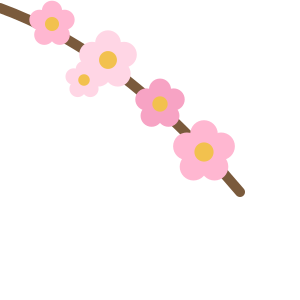
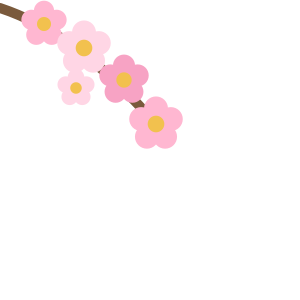
theme-pack: Spring: a larger tulip, a flower chip, deeper grass, corner branch inside 100 px

Changed region(s): [[0.06, 0.0, 0.84, 0.66]]

diff --git a/tools/theme-pack/packs/themes/spring.js b/tools/theme-pack/packs/themes/spring.js
@@ -1,14 +1,14 @@
 (function () {
-  // Blossom: petals drifting behind, a flowering branch in each top corner, grass and flowers under the inputs, a fresh-green glow at focus, a tulip on every slider and a flower on the switches.
+  // Blossom: petals drifting behind, a flowering branch in each top corner (inside 100 px), grass and flowers under the inputs, a fresh-green glow at focus, a tulip on every slider and a flower on the switches.
   var SKY = '<svg style="position:absolute;left:490.3px;top:732.9px;opacity:0.51" width="20" height="20" viewBox="0 0 24 24" aria-hidden="true"><g transform="rotate(253 12 12)"><ellipse cx="12" cy="12" rx="5" ry="9" fill="#FFB7D1"></ellipse></g></svg><svg style="position:absolute;left:1319.3px;top:966.3px;opacity:0.58" width="24" height="24" viewBox="0 0 24 24" aria-hidden="true"><g transform="rotate(237 12 12)"><ellipse cx="12" cy="12" rx="5" ry="9" fill="#FFD6E5"></ellipse></g></svg><svg style="position:absolute;left:20.9px;top:366.4px;opacity:0.54" width="29" height="29" viewBox="0 0 24 24" aria-hidden="true"><g transform="rotate(78 12 12)"><ellipse cx="12" cy="12" rx="5" ry="9" fill="#F7A3C4"></ellipse></g></svg><svg style="position:absolute;left:1130px;top:593.3px;opacity:0.57" width="20" height="20" viewBox="0 0 24 24" aria-hidden="true"><g transform="rotate(218 12 12)"><ellipse cx="12" cy="12" rx="5" ry="9" fill="#FFFFFF"></ellipse></g></svg><svg style="position:absolute;left:1101.2px;top:512.6px;opacity:0.52" width="29" height="29" viewBox="0 0 24 24" aria-hidden="true"><g transform="rotate(125 12 12)"><ellipse cx="12" cy="12" rx="5" ry="9" fill="#FFB7D1"></ellipse></g></svg><svg style="position:absolute;left:1179.3px;top:546.5px;opacity:0.64" width="15" height="15" viewBox="0 0 24 24" aria-hidden="true"><g transform="rotate(346 12 12)"><ellipse cx="12" cy="12" rx="5" ry="9" fill="#FFD6E5"></ellipse></g></svg><svg style="position:absolute;left:117.1px;top:36.6px;opacity:0.54" width="26" height="26" viewBox="0 0 24 24" aria-hidden="true"><g transform="rotate(73 12 12)"><ellipse cx="12" cy="12" rx="5" ry="9" fill="#F7A3C4"></ellipse></g></svg><svg style="position:absolute;left:261.3px;top:434.8px;opacity:0.60" width="22" height="22" viewBox="0 0 24 24" aria-hidden="true"><g transform="rotate(348 12 12)"><ellipse cx="12" cy="12" rx="5" ry="9" fill="#FFFFFF"></ellipse></g></svg><svg style="position:absolute;left:433.1px;top:254px;opacity:0.52" width="19" height="19" viewBox="0 0 24 24" aria-hidden="true"><g transform="rotate(346 12 12)"><ellipse cx="12" cy="12" rx="5" ry="9" fill="#FFB7D1"></ellipse></g></svg><svg style="position:absolute;left:188.1px;top:287.1px;opacity:0.54" width="15" height="15" viewBox="0 0 24 24" aria-hidden="true"><g transform="rotate(236 12 12)"><ellipse cx="12" cy="12" rx="5" ry="9" fill="#FFD6E5"></ellipse></g></svg><svg style="position:absolute;left:1475.1px;top:211.2px;opacity:0.64" width="21" height="21" viewBox="0 0 24 24" aria-hidden="true"><g transform="rotate(116 12 12)"><ellipse cx="12" cy="12" rx="5" ry="9" fill="#F7A3C4"></ellipse></g></svg><svg style="position:absolute;left:1499.3px;top:964.8px;opacity:0.60" width="23" height="23" viewBox="0 0 24 24" aria-hidden="true"><g transform="rotate(105 12 12)"><ellipse cx="12" cy="12" rx="5" ry="9" fill="#FFFFFF"></ellipse></g></svg><svg style="position:absolute;left:185.5px;top:526.8px;opacity:0.55" width="15" height="15" viewBox="0 0 24 24" aria-hidden="true"><g transform="rotate(185 12 12)"><ellipse cx="12" cy="12" rx="5" ry="9" fill="#FFB7D1"></ellipse></g></svg><svg style="position:absolute;left:19.9px;top:897.5px;opacity:0.48" width="15" height="15" viewBox="0 0 24 24" aria-hidden="true"><g transform="rotate(273 12 12)"><ellipse cx="12" cy="12" rx="5" ry="9" fill="#FFD6E5"></ellipse></g></svg><svg style="position:absolute;left:1274.6px;top:455.2px;opacity:0.56" width="19" height="19" viewBox="0 0 24 24" aria-hidden="true"><g transform="rotate(105 12 12)"><ellipse cx="12" cy="12" rx="5" ry="9" fill="#F7A3C4"></ellipse></g></svg><svg style="position:absolute;left:212.6px;top:1002.4px;opacity:0.54" width="14" height="14" viewBox="0 0 24 24" aria-hidden="true"><g transform="rotate(254 12 12)"><ellipse cx="12" cy="12" rx="5" ry="9" fill="#FFFFFF"></ellipse></g></svg><svg style="position:absolute;left:1827.1px;top:110px;opacity:0.47" width="19" height="19" viewBox="0 0 24 24" aria-hidden="true"><g transform="rotate(253 12 12)"><ellipse cx="12" cy="12" rx="5" ry="9" fill="#FFB7D1"></ellipse></g></svg><svg style="position:absolute;left:834px;top:184px;opacity:0.50" width="28" height="28" viewBox="0 0 24 24" aria-hidden="true"><g transform="rotate(212 12 12)"><ellipse cx="12" cy="12" rx="5" ry="9" fill="#FFD6E5"></ellipse></g></svg><svg style="position:absolute;left:108.7px;top:24.8px;opacity:0.47" width="22" height="22" viewBox="0 0 24 24" aria-hidden="true"><g transform="rotate(54 12 12)"><ellipse cx="12" cy="12" rx="5" ry="9" fill="#F7A3C4"></ellipse></g></svg><svg style="position:absolute;left:507.8px;top:753.9px;opacity:0.60" width="26" height="26" viewBox="0 0 24 24" aria-hidden="true"><g transform="rotate(215 12 12)"><ellipse cx="12" cy="12" rx="5" ry="9" fill="#FFFFFF"></ellipse></g></svg><svg style="position:absolute;left:383.1px;top:500.1px;opacity:0.59" width="26" height="26" viewBox="0 0 24 24" aria-hidden="true"><g transform="rotate(119 12 12)"><ellipse cx="12" cy="12" rx="5" ry="9" fill="#FFB7D1"></ellipse></g></svg><svg style="position:absolute;left:307.5px;top:909.4px;opacity:0.63" width="19" height="19" viewBox="0 0 24 24" aria-hidden="true"><g transform="rotate(232 12 12)"><ellipse cx="12" cy="12" rx="5" ry="9" fill="#FFD6E5"></ellipse></g></svg><svg style="position:absolute;left:581.4px;top:717.1px;opacity:0.61" width="20" height="20" viewBox="0 0 24 24" aria-hidden="true"><g transform="rotate(198 12 12)"><ellipse cx="12" cy="12" rx="5" ry="9" fill="#F7A3C4"></ellipse></g></svg><svg style="position:absolute;left:381.8px;top:225.7px;opacity:0.50" width="28" height="28" viewBox="0 0 24 24" aria-hidden="true"><g transform="rotate(294 12 12)"><ellipse cx="12" cy="12" rx="5" ry="9" fill="#FFFFFF"></ellipse></g></svg><svg style="position:absolute;left:1626.1px;top:300.7px;opacity:0.59" width="26" height="26" viewBox="0 0 24 24" aria-hidden="true"><g transform="rotate(1 12 12)"><ellipse cx="12" cy="12" rx="5" ry="9" fill="#FFB7D1"></ellipse></g></svg><svg style="position:absolute;left:516.2px;top:657.6px;opacity:0.47" width="23" height="23" viewBox="0 0 24 24" aria-hidden="true"><g transform="rotate(27 12 12)"><ellipse cx="12" cy="12" rx="5" ry="9" fill="#FFD6E5"></ellipse></g></svg>';
-  var BOTTOM = '<svg width="1920" height="54" viewBox="0 0 1920 54" aria-hidden="true"><g transform="translate(0 -16)"><path d="M0 54V38C300 30 700 40 1000 34S1600 30 1920 38V54Z" fill="#3FA25A" opacity="0.9"></path><path d="M13 54Q15 50 18 38" stroke="#2E8A48" stroke-width="2" fill="none"></path><path d="M46 54Q48 45 51 28" stroke="#2E8A48" stroke-width="2" fill="none"></path><path d="M84 54Q86 47 89 32" stroke="#2E8A48" stroke-width="2" fill="none"></path><path d="M117 54Q119 45 122 28" stroke="#2E8A48" stroke-width="2" fill="none"></path><path d="M146 54Q148 50 151 38" stroke="#2E8A48" stroke-width="2" fill="none"></path><path d="M176 54Q178 49 181 36" stroke="#2E8A48" stroke-width="2" fill="none"></path><path d="M208 54Q210 48 213 33" stroke="#2E8A48" stroke-width="2" fill="none"></path><path d="M246 54Q248 49 251 36" stroke="#2E8A48" stroke-width="2" fill="none"></path><path d="M279 54Q281 48 284 34" stroke="#2E8A48" stroke-width="2" fill="none"></path><path d="M309 54Q311 46 314 31" stroke="#2E8A48" stroke-width="2" fill="none"></path><path d="M331 54Q333 50 336 38" stroke="#2E8A48" stroke-width="2" fill="none"></path><path d="M373 54Q375 46 378 30" stroke="#2E8A48" stroke-width="2" fill="none"></path><path d="M407 54Q409 46 412 30" stroke="#2E8A48" stroke-width="2" fill="none"></path><path d="M437 54Q439 46 442 31" stroke="#2E8A48" stroke-width="2" fill="none"></path><path d="M471 54Q473 50 476 37" stroke="#2E8A48" stroke-width="2" fill="none"></path><path d="M491 54Q493 49 496 35" stroke="#2E8A48" stroke-width="2" fill="none"></path><path d="M523 54Q525 49 528 36" stroke="#2E8A48" stroke-width="2" fill="none"></path><path d="M556 54Q558 50 561 38" stroke="#2E8A48" stroke-width="2" fill="none"></path><path d="M592 54Q594 46 597 31" stroke="#2E8A48" stroke-width="2" fill="none"></path><path d="M620 54Q622 46 625 31" stroke="#2E8A48" stroke-width="2" fill="none"></path><path d="M651 54Q653 49 656 36" stroke="#2E8A48" stroke-width="2" fill="none"></path><path d="M683 54Q685 49 688 35" stroke="#2E8A48" stroke-width="2" fill="none"></path><path d="M727 54Q729 49 732 36" stroke="#2E8A48" stroke-width="2" fill="none"></path><path d="M750 54Q752 48 755 34" stroke="#2E8A48" stroke-width="2" fill="none"></path><path d="M787 54Q789 48 792 34" stroke="#2E8A48" stroke-width="2" fill="none"></path><path d="M819 54Q821 50 824 38" stroke="#2E8A48" stroke-width="2" fill="none"></path><path d="M846 54Q848 46 851 31" stroke="#2E8A48" stroke-width="2" fill="none"></path><path d="M879 54Q881 45 884 29" stroke="#2E8A48" stroke-width="2" fill="none"></path><path d="M908 54Q910 45 913 28" stroke="#2E8A48" stroke-width="2" fill="none"></path><path d="M945 54Q947 47 950 32" stroke="#2E8A48" stroke-width="2" fill="none"></path><path d="M975 54Q977 48 980 35" stroke="#2E8A48" stroke-width="2" fill="none"></path><path d="M1004 54Q1006 47 1009 31" stroke="#2E8A48" stroke-width="2" fill="none"></path><path d="M1035 54Q1037 47 1040 33" stroke="#2E8A48" stroke-width="2" fill="none"></path><path d="M1067 54Q1069 47 1072 32" stroke="#2E8A48" stroke-width="2" fill="none"></path><path d="M1104 54Q1106 48 1109 33" stroke="#2E8A48" stroke-width="2" fill="none"></path><path d="M1132 54Q1134 45 1137 28" stroke="#2E8A48" stroke-width="2" fill="none"></path><path d="M1164 54Q1166 47 1169 32" stroke="#2E8A48" stroke-width="2" fill="none"></path><path d="M1202 54Q1204 48 1207 33" stroke="#2E8A48" stroke-width="2" fill="none"></path><path d="M1235 54Q1237 49 1240 37" stroke="#2E8A48" stroke-width="2" fill="none"></path><path d="M1271 54Q1273 47 1276 33" stroke="#2E8A48" stroke-width="2" fill="none"></path><path d="M1304 54Q1306 49 1309 37" stroke="#2E8A48" stroke-width="2" fill="none"></path><path d="M1328 54Q1330 48 1333 33" stroke="#2E8A48" stroke-width="2" fill="none"></path><path d="M1356 54Q1358 49 1361 36" stroke="#2E8A48" stroke-width="2" fill="none"></path><path d="M1390 54Q1392 48 1395 33" stroke="#2E8A48" stroke-width="2" fill="none"></path><path d="M1418 54Q1420 50 1423 38" stroke="#2E8A48" stroke-width="2" fill="none"></path><path d="M1463 54Q1465 49 1468 36" stroke="#2E8A48" stroke-width="2" fill="none"></path><path d="M1495 54Q1497 45 1500 28" stroke="#2E8A48" stroke-width="2" fill="none"></path><path d="M1517 54Q1519 47 1522 32" stroke="#2E8A48" stroke-width="2" fill="none"></path><path d="M1554 54Q1556 46 1559 29" stroke="#2E8A48" stroke-width="2" fill="none"></path><path d="M1583 54Q1585 48 1588 35" stroke="#2E8A48" stroke-width="2" fill="none"></path><path d="M1617 54Q1619 45 1622 29" stroke="#2E8A48" stroke-width="2" fill="none"></path><path d="M1654 54Q1656 45 1659 28" stroke="#2E8A48" stroke-width="2" fill="none"></path><path d="M1684 54Q1686 48 1689 34" stroke="#2E8A48" stroke-width="2" fill="none"></path><path d="M1714 54Q1716 45 1719 29" stroke="#2E8A48" stroke-width="2" fill="none"></path><path d="M1749 54Q1751 45 1754 28" stroke="#2E8A48" stroke-width="2" fill="none"></path><path d="M1774 54Q1776 47 1779 33" stroke="#2E8A48" stroke-width="2" fill="none"></path><path d="M1810 54Q1812 47 1815 31" stroke="#2E8A48" stroke-width="2" fill="none"></path><path d="M1848 54Q1850 48 1853 33" stroke="#2E8A48" stroke-width="2" fill="none"></path><path d="M1866 54Q1868 50 1871 38" stroke="#2E8A48" stroke-width="2" fill="none"></path><path d="M1902 54Q1904 48 1907 33" stroke="#2E8A48" stroke-width="2" fill="none"></path><g transform="translate(49 25) scale(0.7)"><circle cx="12.0" cy="6.0" r="4.6" fill="#FFB7D1"></circle><circle cx="17.7" cy="10.1" r="4.6" fill="#FFB7D1"></circle><circle cx="15.5" cy="16.9" r="4.6" fill="#FFB7D1"></circle><circle cx="8.5" cy="16.9" r="4.6" fill="#FFB7D1"></circle><circle cx="6.3" cy="10.1" r="4.6" fill="#FFB7D1"></circle><circle cx="12" cy="12" r="3.2" fill="#F2A93B"></circle></g><g transform="translate(200 24) scale(0.7)"><circle cx="12.0" cy="6.0" r="4.6" fill="#FFF2A8"></circle><circle cx="17.7" cy="10.1" r="4.6" fill="#FFF2A8"></circle><circle cx="15.5" cy="16.9" r="4.6" fill="#FFF2A8"></circle><circle cx="8.5" cy="16.9" r="4.6" fill="#FFF2A8"></circle><circle cx="6.3" cy="10.1" r="4.6" fill="#FFF2A8"></circle><circle cx="12" cy="12" r="3.2" fill="#F2A93B"></circle></g><g transform="translate(334 29) scale(0.7)"><circle cx="12.0" cy="6.0" r="4.6" fill="#C9B6FF"></circle><circle cx="17.7" cy="10.1" r="4.6" fill="#C9B6FF"></circle><circle cx="15.5" cy="16.9" r="4.6" fill="#C9B6FF"></circle><circle cx="8.5" cy="16.9" r="4.6" fill="#C9B6FF"></circle><circle cx="6.3" cy="10.1" r="4.6" fill="#C9B6FF"></circle><circle cx="12" cy="12" r="3.2" fill="#F2A93B"></circle></g><g transform="translate(476 32) scale(0.7)"><circle cx="12.0" cy="6.0" r="4.6" fill="#FFB7D1"></circle><circle cx="17.7" cy="10.1" r="4.6" fill="#FFB7D1"></circle><circle cx="15.5" cy="16.9" r="4.6" fill="#FFB7D1"></circle><circle cx="8.5" cy="16.9" r="4.6" fill="#FFB7D1"></circle><circle cx="6.3" cy="10.1" r="4.6" fill="#FFB7D1"></circle><circle cx="12" cy="12" r="3.2" fill="#F2A93B"></circle></g><g transform="translate(589 29) scale(0.7)"><circle cx="12.0" cy="6.0" r="4.6" fill="#FFF2A8"></circle><circle cx="17.7" cy="10.1" r="4.6" fill="#FFF2A8"></circle><circle cx="15.5" cy="16.9" r="4.6" fill="#FFF2A8"></circle><circle cx="8.5" cy="16.9" r="4.6" fill="#FFF2A8"></circle><circle cx="6.3" cy="10.1" r="4.6" fill="#FFF2A8"></circle><circle cx="12" cy="12" r="3.2" fill="#F2A93B"></circle></g><g transform="translate(722 25) scale(0.7)"><circle cx="12.0" cy="6.0" r="4.6" fill="#C9B6FF"></circle><circle cx="17.7" cy="10.1" r="4.6" fill="#C9B6FF"></circle><circle cx="15.5" cy="16.9" r="4.6" fill="#C9B6FF"></circle><circle cx="8.5" cy="16.9" r="4.6" fill="#C9B6FF"></circle><circle cx="6.3" cy="10.1" r="4.6" fill="#C9B6FF"></circle><circle cx="12" cy="12" r="3.2" fill="#F2A93B"></circle></g><g transform="translate(853 31) scale(0.7)"><circle cx="12.0" cy="6.0" r="4.6" fill="#FFB7D1"></circle><circle cx="17.7" cy="10.1" r="4.6" fill="#FFB7D1"></circle><circle cx="15.5" cy="16.9" r="4.6" fill="#FFB7D1"></circle><circle cx="8.5" cy="16.9" r="4.6" fill="#FFB7D1"></circle><circle cx="6.3" cy="10.1" r="4.6" fill="#FFB7D1"></circle><circle cx="12" cy="12" r="3.2" fill="#F2A93B"></circle></g><g transform="translate(1003 32) scale(0.7)"><circle cx="12.0" cy="6.0" r="4.6" fill="#FFF2A8"></circle><circle cx="17.7" cy="10.1" r="4.6" fill="#FFF2A8"></circle><circle cx="15.5" cy="16.9" r="4.6" fill="#FFF2A8"></circle><circle cx="8.5" cy="16.9" r="4.6" fill="#FFF2A8"></circle><circle cx="6.3" cy="10.1" r="4.6" fill="#FFF2A8"></circle><circle cx="12" cy="12" r="3.2" fill="#F2A93B"></circle></g><g transform="translate(1145 29) scale(0.7)"><circle cx="12.0" cy="6.0" r="4.6" fill="#C9B6FF"></circle><circle cx="17.7" cy="10.1" r="4.6" fill="#C9B6FF"></circle><circle cx="15.5" cy="16.9" r="4.6" fill="#C9B6FF"></circle><circle cx="8.5" cy="16.9" r="4.6" fill="#C9B6FF"></circle><circle cx="6.3" cy="10.1" r="4.6" fill="#C9B6FF"></circle><circle cx="12" cy="12" r="3.2" fill="#F2A93B"></circle></g><g transform="translate(1292 34) scale(0.7)"><circle cx="12.0" cy="6.0" r="4.6" fill="#FFB7D1"></circle><circle cx="17.7" cy="10.1" r="4.6" fill="#FFB7D1"></circle><circle cx="15.5" cy="16.9" r="4.6" fill="#FFB7D1"></circle><circle cx="8.5" cy="16.9" r="4.6" fill="#FFB7D1"></circle><circle cx="6.3" cy="10.1" r="4.6" fill="#FFB7D1"></circle><circle cx="12" cy="12" r="3.2" fill="#F2A93B"></circle></g><g transform="translate(1408 28) scale(0.7)"><circle cx="12.0" cy="6.0" r="4.6" fill="#FFF2A8"></circle><circle cx="17.7" cy="10.1" r="4.6" fill="#FFF2A8"></circle><circle cx="15.5" cy="16.9" r="4.6" fill="#FFF2A8"></circle><circle cx="8.5" cy="16.9" r="4.6" fill="#FFF2A8"></circle><circle cx="6.3" cy="10.1" r="4.6" fill="#FFF2A8"></circle><circle cx="12" cy="12" r="3.2" fill="#F2A93B"></circle></g><g transform="translate(1536 28) scale(0.7)"><circle cx="12.0" cy="6.0" r="4.6" fill="#C9B6FF"></circle><circle cx="17.7" cy="10.1" r="4.6" fill="#C9B6FF"></circle><circle cx="15.5" cy="16.9" r="4.6" fill="#C9B6FF"></circle><circle cx="8.5" cy="16.9" r="4.6" fill="#C9B6FF"></circle><circle cx="6.3" cy="10.1" r="4.6" fill="#C9B6FF"></circle><circle cx="12" cy="12" r="3.2" fill="#F2A93B"></circle></g><g transform="translate(1678 27) scale(0.7)"><circle cx="12.0" cy="6.0" r="4.6" fill="#FFB7D1"></circle><circle cx="17.7" cy="10.1" r="4.6" fill="#FFB7D1"></circle><circle cx="15.5" cy="16.9" r="4.6" fill="#FFB7D1"></circle><circle cx="8.5" cy="16.9" r="4.6" fill="#FFB7D1"></circle><circle cx="6.3" cy="10.1" r="4.6" fill="#FFB7D1"></circle><circle cx="12" cy="12" r="3.2" fill="#F2A93B"></circle></g><g transform="translate(1805 26) scale(0.7)"><circle cx="12.0" cy="6.0" r="4.6" fill="#FFF2A8"></circle><circle cx="17.7" cy="10.1" r="4.6" fill="#FFF2A8"></circle><circle cx="15.5" cy="16.9" r="4.6" fill="#FFF2A8"></circle><circle cx="8.5" cy="16.9" r="4.6" fill="#FFF2A8"></circle><circle cx="6.3" cy="10.1" r="4.6" fill="#FFF2A8"></circle><circle cx="12" cy="12" r="3.2" fill="#F2A93B"></circle></g></g></svg>';
-  var CORNER = '<svg width="150" height="150" viewBox="0 0 150 150" aria-hidden="true"><path d="M150 4C112 18 74 44 30 96" stroke="#7A5A3C" stroke-width="5" fill="none" stroke-linecap="round"></path><g transform="translate(110.8 -1.200000000000001) scale(1.1)"><circle cx="12.0" cy="6.0" r="4.6" fill="#FFB7D1"></circle><circle cx="17.7" cy="10.1" r="4.6" fill="#FFB7D1"></circle><circle cx="15.5" cy="16.9" r="4.6" fill="#FFB7D1"></circle><circle cx="8.5" cy="16.9" r="4.6" fill="#FFB7D1"></circle><circle cx="6.3" cy="10.1" r="4.6" fill="#FFB7D1"></circle><circle cx="12" cy="12" r="3.2" fill="#F2C14E"></circle></g><g transform="translate(79.2 13.200000000000003) scale(1.4)"><circle cx="12.0" cy="6.0" r="4.6" fill="#FFD6E5"></circle><circle cx="17.7" cy="10.1" r="4.6" fill="#FFD6E5"></circle><circle cx="15.5" cy="16.9" r="4.6" fill="#FFD6E5"></circle><circle cx="8.5" cy="16.9" r="4.6" fill="#FFD6E5"></circle><circle cx="6.3" cy="10.1" r="4.6" fill="#FFD6E5"></circle><circle cx="12" cy="12" r="3.2" fill="#F2C14E"></circle></g><g transform="translate(55.6 37.6) scale(1.2)"><circle cx="12.0" cy="6.0" r="4.6" fill="#F7A3C4"></circle><circle cx="17.7" cy="10.1" r="4.6" fill="#F7A3C4"></circle><circle cx="15.5" cy="16.9" r="4.6" fill="#F7A3C4"></circle><circle cx="8.5" cy="16.9" r="4.6" fill="#F7A3C4"></circle><circle cx="6.3" cy="10.1" r="4.6" fill="#F7A3C4"></circle><circle cx="12" cy="12" r="3.2" fill="#F2C14E"></circle></g><g transform="translate(30 58) scale(1.5)"><circle cx="12.0" cy="6.0" r="4.6" fill="#FFB7D1"></circle><circle cx="17.7" cy="10.1" r="4.6" fill="#FFB7D1"></circle><circle cx="15.5" cy="16.9" r="4.6" fill="#FFB7D1"></circle><circle cx="8.5" cy="16.9" r="4.6" fill="#FFB7D1"></circle><circle cx="6.3" cy="10.1" r="4.6" fill="#FFB7D1"></circle><circle cx="12" cy="12" r="3.2" fill="#F2C14E"></circle></g><g transform="translate(97.2 29.2) scale(0.9)"><circle cx="12.0" cy="6.0" r="4.6" fill="#FFD6E5"></circle><circle cx="17.7" cy="10.1" r="4.6" fill="#FFD6E5"></circle><circle cx="15.5" cy="16.9" r="4.6" fill="#FFD6E5"></circle><circle cx="8.5" cy="16.9" r="4.6" fill="#FFD6E5"></circle><circle cx="6.3" cy="10.1" r="4.6" fill="#FFD6E5"></circle><circle cx="12" cy="12" r="3.2" fill="#F2C14E"></circle></g></svg>';
-  var CORNER_L = '<svg width="150" height="150" viewBox="0 0 150 150" aria-hidden="true" style="-webkit-transform:scaleX(-1);transform:scaleX(-1)"><path d="M150 4C112 18 74 44 30 96" stroke="#7A5A3C" stroke-width="5" fill="none" stroke-linecap="round"></path><g transform="translate(110.8 -1.200000000000001) scale(1.1)"><circle cx="12.0" cy="6.0" r="4.6" fill="#FFB7D1"></circle><circle cx="17.7" cy="10.1" r="4.6" fill="#FFB7D1"></circle><circle cx="15.5" cy="16.9" r="4.6" fill="#FFB7D1"></circle><circle cx="8.5" cy="16.9" r="4.6" fill="#FFB7D1"></circle><circle cx="6.3" cy="10.1" r="4.6" fill="#FFB7D1"></circle><circle cx="12" cy="12" r="3.2" fill="#F2C14E"></circle></g><g transform="translate(79.2 13.200000000000003) scale(1.4)"><circle cx="12.0" cy="6.0" r="4.6" fill="#FFD6E5"></circle><circle cx="17.7" cy="10.1" r="4.6" fill="#FFD6E5"></circle><circle cx="15.5" cy="16.9" r="4.6" fill="#FFD6E5"></circle><circle cx="8.5" cy="16.9" r="4.6" fill="#FFD6E5"></circle><circle cx="6.3" cy="10.1" r="4.6" fill="#FFD6E5"></circle><circle cx="12" cy="12" r="3.2" fill="#F2C14E"></circle></g><g transform="translate(55.6 37.6) scale(1.2)"><circle cx="12.0" cy="6.0" r="4.6" fill="#F7A3C4"></circle><circle cx="17.7" cy="10.1" r="4.6" fill="#F7A3C4"></circle><circle cx="15.5" cy="16.9" r="4.6" fill="#F7A3C4"></circle><circle cx="8.5" cy="16.9" r="4.6" fill="#F7A3C4"></circle><circle cx="6.3" cy="10.1" r="4.6" fill="#F7A3C4"></circle><circle cx="12" cy="12" r="3.2" fill="#F2C14E"></circle></g><g transform="translate(30 58) scale(1.5)"><circle cx="12.0" cy="6.0" r="4.6" fill="#FFB7D1"></circle><circle cx="17.7" cy="10.1" r="4.6" fill="#FFB7D1"></circle><circle cx="15.5" cy="16.9" r="4.6" fill="#FFB7D1"></circle><circle cx="8.5" cy="16.9" r="4.6" fill="#FFB7D1"></circle><circle cx="6.3" cy="10.1" r="4.6" fill="#FFB7D1"></circle><circle cx="12" cy="12" r="3.2" fill="#F2C14E"></circle></g><g transform="translate(97.2 29.2) scale(0.9)"><circle cx="12.0" cy="6.0" r="4.6" fill="#FFD6E5"></circle><circle cx="17.7" cy="10.1" r="4.6" fill="#FFD6E5"></circle><circle cx="15.5" cy="16.9" r="4.6" fill="#FFD6E5"></circle><circle cx="8.5" cy="16.9" r="4.6" fill="#FFD6E5"></circle><circle cx="6.3" cy="10.1" r="4.6" fill="#FFD6E5"></circle><circle cx="12" cy="12" r="3.2" fill="#F2C14E"></circle></g></svg>';
+  var BOTTOM = '<svg width="1920" height="54" viewBox="0 0 1920 54" aria-hidden="true"><g transform="translate(0 -16)"><path d="M0 54V38C300 30 700 40 1000 34S1600 30 1920 38V54Z" fill="#2F8A4A" opacity="0.95"></path><path d="M13 54Q15 50 18 38" stroke="#1F7038" stroke-width="2" fill="none"></path><path d="M46 54Q48 45 51 28" stroke="#1F7038" stroke-width="2" fill="none"></path><path d="M84 54Q86 47 89 32" stroke="#1F7038" stroke-width="2" fill="none"></path><path d="M117 54Q119 45 122 28" stroke="#1F7038" stroke-width="2" fill="none"></path><path d="M146 54Q148 50 151 38" stroke="#1F7038" stroke-width="2" fill="none"></path><path d="M176 54Q178 49 181 36" stroke="#1F7038" stroke-width="2" fill="none"></path><path d="M208 54Q210 48 213 33" stroke="#1F7038" stroke-width="2" fill="none"></path><path d="M246 54Q248 49 251 36" stroke="#1F7038" stroke-width="2" fill="none"></path><path d="M279 54Q281 48 284 34" stroke="#1F7038" stroke-width="2" fill="none"></path><path d="M309 54Q311 46 314 31" stroke="#1F7038" stroke-width="2" fill="none"></path><path d="M331 54Q333 50 336 38" stroke="#1F7038" stroke-width="2" fill="none"></path><path d="M373 54Q375 46 378 30" stroke="#1F7038" stroke-width="2" fill="none"></path><path d="M407 54Q409 46 412 30" stroke="#1F7038" stroke-width="2" fill="none"></path><path d="M437 54Q439 46 442 31" stroke="#1F7038" stroke-width="2" fill="none"></path><path d="M471 54Q473 50 476 37" stroke="#1F7038" stroke-width="2" fill="none"></path><path d="M491 54Q493 49 496 35" stroke="#1F7038" stroke-width="2" fill="none"></path><path d="M523 54Q525 49 528 36" stroke="#1F7038" stroke-width="2" fill="none"></path><path d="M556 54Q558 50 561 38" stroke="#1F7038" stroke-width="2" fill="none"></path><path d="M592 54Q594 46 597 31" stroke="#1F7038" stroke-width="2" fill="none"></path><path d="M620 54Q622 46 625 31" stroke="#1F7038" stroke-width="2" fill="none"></path><path d="M651 54Q653 49 656 36" stroke="#1F7038" stroke-width="2" fill="none"></path><path d="M683 54Q685 49 688 35" stroke="#1F7038" stroke-width="2" fill="none"></path><path d="M727 54Q729 49 732 36" stroke="#1F7038" stroke-width="2" fill="none"></path><path d="M750 54Q752 48 755 34" stroke="#1F7038" stroke-width="2" fill="none"></path><path d="M787 54Q789 48 792 34" stroke="#1F7038" stroke-width="2" fill="none"></path><path d="M819 54Q821 50 824 38" stroke="#1F7038" stroke-width="2" fill="none"></path><path d="M846 54Q848 46 851 31" stroke="#1F7038" stroke-width="2" fill="none"></path><path d="M879 54Q881 45 884 29" stroke="#1F7038" stroke-width="2" fill="none"></path><path d="M908 54Q910 45 913 28" stroke="#1F7038" stroke-width="2" fill="none"></path><path d="M945 54Q947 47 950 32" stroke="#1F7038" stroke-width="2" fill="none"></path><path d="M975 54Q977 48 980 35" stroke="#1F7038" stroke-width="2" fill="none"></path><path d="M1004 54Q1006 47 1009 31" stroke="#1F7038" stroke-width="2" fill="none"></path><path d="M1035 54Q1037 47 1040 33" stroke="#1F7038" stroke-width="2" fill="none"></path><path d="M1067 54Q1069 47 1072 32" stroke="#1F7038" stroke-width="2" fill="none"></path><path d="M1104 54Q1106 48 1109 33" stroke="#1F7038" stroke-width="2" fill="none"></path><path d="M1132 54Q1134 45 1137 28" stroke="#1F7038" stroke-width="2" fill="none"></path><path d="M1164 54Q1166 47 1169 32" stroke="#1F7038" stroke-width="2" fill="none"></path><path d="M1202 54Q1204 48 1207 33" stroke="#1F7038" stroke-width="2" fill="none"></path><path d="M1235 54Q1237 49 1240 37" stroke="#1F7038" stroke-width="2" fill="none"></path><path d="M1271 54Q1273 47 1276 33" stroke="#1F7038" stroke-width="2" fill="none"></path><path d="M1304 54Q1306 49 1309 37" stroke="#1F7038" stroke-width="2" fill="none"></path><path d="M1328 54Q1330 48 1333 33" stroke="#1F7038" stroke-width="2" fill="none"></path><path d="M1356 54Q1358 49 1361 36" stroke="#1F7038" stroke-width="2" fill="none"></path><path d="M1390 54Q1392 48 1395 33" stroke="#1F7038" stroke-width="2" fill="none"></path><path d="M1418 54Q1420 50 1423 38" stroke="#1F7038" stroke-width="2" fill="none"></path><path d="M1463 54Q1465 49 1468 36" stroke="#1F7038" stroke-width="2" fill="none"></path><path d="M1495 54Q1497 45 1500 28" stroke="#1F7038" stroke-width="2" fill="none"></path><path d="M1517 54Q1519 47 1522 32" stroke="#1F7038" stroke-width="2" fill="none"></path><path d="M1554 54Q1556 46 1559 29" stroke="#1F7038" stroke-width="2" fill="none"></path><path d="M1583 54Q1585 48 1588 35" stroke="#1F7038" stroke-width="2" fill="none"></path><path d="M1617 54Q1619 45 1622 29" stroke="#1F7038" stroke-width="2" fill="none"></path><path d="M1654 54Q1656 45 1659 28" stroke="#1F7038" stroke-width="2" fill="none"></path><path d="M1684 54Q1686 48 1689 34" stroke="#1F7038" stroke-width="2" fill="none"></path><path d="M1714 54Q1716 45 1719 29" stroke="#1F7038" stroke-width="2" fill="none"></path><path d="M1749 54Q1751 45 1754 28" stroke="#1F7038" stroke-width="2" fill="none"></path><path d="M1774 54Q1776 47 1779 33" stroke="#1F7038" stroke-width="2" fill="none"></path><path d="M1810 54Q1812 47 1815 31" stroke="#1F7038" stroke-width="2" fill="none"></path><path d="M1848 54Q1850 48 1853 33" stroke="#1F7038" stroke-width="2" fill="none"></path><path d="M1866 54Q1868 50 1871 38" stroke="#1F7038" stroke-width="2" fill="none"></path><path d="M1902 54Q1904 48 1907 33" stroke="#1F7038" stroke-width="2" fill="none"></path><g transform="translate(49 25) scale(0.7)"><circle cx="12.0" cy="6.0" r="4.6" fill="#FFB7D1"></circle><circle cx="17.7" cy="10.1" r="4.6" fill="#FFB7D1"></circle><circle cx="15.5" cy="16.9" r="4.6" fill="#FFB7D1"></circle><circle cx="8.5" cy="16.9" r="4.6" fill="#FFB7D1"></circle><circle cx="6.3" cy="10.1" r="4.6" fill="#FFB7D1"></circle><circle cx="12" cy="12" r="3.2" fill="#F2A93B"></circle></g><g transform="translate(200 24) scale(0.7)"><circle cx="12.0" cy="6.0" r="4.6" fill="#FFF2A8"></circle><circle cx="17.7" cy="10.1" r="4.6" fill="#FFF2A8"></circle><circle cx="15.5" cy="16.9" r="4.6" fill="#FFF2A8"></circle><circle cx="8.5" cy="16.9" r="4.6" fill="#FFF2A8"></circle><circle cx="6.3" cy="10.1" r="4.6" fill="#FFF2A8"></circle><circle cx="12" cy="12" r="3.2" fill="#F2A93B"></circle></g><g transform="translate(334 29) scale(0.7)"><circle cx="12.0" cy="6.0" r="4.6" fill="#C9B6FF"></circle><circle cx="17.7" cy="10.1" r="4.6" fill="#C9B6FF"></circle><circle cx="15.5" cy="16.9" r="4.6" fill="#C9B6FF"></circle><circle cx="8.5" cy="16.9" r="4.6" fill="#C9B6FF"></circle><circle cx="6.3" cy="10.1" r="4.6" fill="#C9B6FF"></circle><circle cx="12" cy="12" r="3.2" fill="#F2A93B"></circle></g><g transform="translate(476 32) scale(0.7)"><circle cx="12.0" cy="6.0" r="4.6" fill="#FFB7D1"></circle><circle cx="17.7" cy="10.1" r="4.6" fill="#FFB7D1"></circle><circle cx="15.5" cy="16.9" r="4.6" fill="#FFB7D1"></circle><circle cx="8.5" cy="16.9" r="4.6" fill="#FFB7D1"></circle><circle cx="6.3" cy="10.1" r="4.6" fill="#FFB7D1"></circle><circle cx="12" cy="12" r="3.2" fill="#F2A93B"></circle></g><g transform="translate(589 29) scale(0.7)"><circle cx="12.0" cy="6.0" r="4.6" fill="#FFF2A8"></circle><circle cx="17.7" cy="10.1" r="4.6" fill="#FFF2A8"></circle><circle cx="15.5" cy="16.9" r="4.6" fill="#FFF2A8"></circle><circle cx="8.5" cy="16.9" r="4.6" fill="#FFF2A8"></circle><circle cx="6.3" cy="10.1" r="4.6" fill="#FFF2A8"></circle><circle cx="12" cy="12" r="3.2" fill="#F2A93B"></circle></g><g transform="translate(722 25) scale(0.7)"><circle cx="12.0" cy="6.0" r="4.6" fill="#C9B6FF"></circle><circle cx="17.7" cy="10.1" r="4.6" fill="#C9B6FF"></circle><circle cx="15.5" cy="16.9" r="4.6" fill="#C9B6FF"></circle><circle cx="8.5" cy="16.9" r="4.6" fill="#C9B6FF"></circle><circle cx="6.3" cy="10.1" r="4.6" fill="#C9B6FF"></circle><circle cx="12" cy="12" r="3.2" fill="#F2A93B"></circle></g><g transform="translate(853 31) scale(0.7)"><circle cx="12.0" cy="6.0" r="4.6" fill="#FFB7D1"></circle><circle cx="17.7" cy="10.1" r="4.6" fill="#FFB7D1"></circle><circle cx="15.5" cy="16.9" r="4.6" fill="#FFB7D1"></circle><circle cx="8.5" cy="16.9" r="4.6" fill="#FFB7D1"></circle><circle cx="6.3" cy="10.1" r="4.6" fill="#FFB7D1"></circle><circle cx="12" cy="12" r="3.2" fill="#F2A93B"></circle></g><g transform="translate(1003 32) scale(0.7)"><circle cx="12.0" cy="6.0" r="4.6" fill="#FFF2A8"></circle><circle cx="17.7" cy="10.1" r="4.6" fill="#FFF2A8"></circle><circle cx="15.5" cy="16.9" r="4.6" fill="#FFF2A8"></circle><circle cx="8.5" cy="16.9" r="4.6" fill="#FFF2A8"></circle><circle cx="6.3" cy="10.1" r="4.6" fill="#FFF2A8"></circle><circle cx="12" cy="12" r="3.2" fill="#F2A93B"></circle></g><g transform="translate(1145 29) scale(0.7)"><circle cx="12.0" cy="6.0" r="4.6" fill="#C9B6FF"></circle><circle cx="17.7" cy="10.1" r="4.6" fill="#C9B6FF"></circle><circle cx="15.5" cy="16.9" r="4.6" fill="#C9B6FF"></circle><circle cx="8.5" cy="16.9" r="4.6" fill="#C9B6FF"></circle><circle cx="6.3" cy="10.1" r="4.6" fill="#C9B6FF"></circle><circle cx="12" cy="12" r="3.2" fill="#F2A93B"></circle></g><g transform="translate(1292 34) scale(0.7)"><circle cx="12.0" cy="6.0" r="4.6" fill="#FFB7D1"></circle><circle cx="17.7" cy="10.1" r="4.6" fill="#FFB7D1"></circle><circle cx="15.5" cy="16.9" r="4.6" fill="#FFB7D1"></circle><circle cx="8.5" cy="16.9" r="4.6" fill="#FFB7D1"></circle><circle cx="6.3" cy="10.1" r="4.6" fill="#FFB7D1"></circle><circle cx="12" cy="12" r="3.2" fill="#F2A93B"></circle></g><g transform="translate(1408 28) scale(0.7)"><circle cx="12.0" cy="6.0" r="4.6" fill="#FFF2A8"></circle><circle cx="17.7" cy="10.1" r="4.6" fill="#FFF2A8"></circle><circle cx="15.5" cy="16.9" r="4.6" fill="#FFF2A8"></circle><circle cx="8.5" cy="16.9" r="4.6" fill="#FFF2A8"></circle><circle cx="6.3" cy="10.1" r="4.6" fill="#FFF2A8"></circle><circle cx="12" cy="12" r="3.2" fill="#F2A93B"></circle></g><g transform="translate(1536 28) scale(0.7)"><circle cx="12.0" cy="6.0" r="4.6" fill="#C9B6FF"></circle><circle cx="17.7" cy="10.1" r="4.6" fill="#C9B6FF"></circle><circle cx="15.5" cy="16.9" r="4.6" fill="#C9B6FF"></circle><circle cx="8.5" cy="16.9" r="4.6" fill="#C9B6FF"></circle><circle cx="6.3" cy="10.1" r="4.6" fill="#C9B6FF"></circle><circle cx="12" cy="12" r="3.2" fill="#F2A93B"></circle></g><g transform="translate(1678 27) scale(0.7)"><circle cx="12.0" cy="6.0" r="4.6" fill="#FFB7D1"></circle><circle cx="17.7" cy="10.1" r="4.6" fill="#FFB7D1"></circle><circle cx="15.5" cy="16.9" r="4.6" fill="#FFB7D1"></circle><circle cx="8.5" cy="16.9" r="4.6" fill="#FFB7D1"></circle><circle cx="6.3" cy="10.1" r="4.6" fill="#FFB7D1"></circle><circle cx="12" cy="12" r="3.2" fill="#F2A93B"></circle></g><g transform="translate(1805 26) scale(0.7)"><circle cx="12.0" cy="6.0" r="4.6" fill="#FFF2A8"></circle><circle cx="17.7" cy="10.1" r="4.6" fill="#FFF2A8"></circle><circle cx="15.5" cy="16.9" r="4.6" fill="#FFF2A8"></circle><circle cx="8.5" cy="16.9" r="4.6" fill="#FFF2A8"></circle><circle cx="6.3" cy="10.1" r="4.6" fill="#FFF2A8"></circle><circle cx="12" cy="12" r="3.2" fill="#F2A93B"></circle></g></g></svg>';
+  var CORNER = '<svg width="150" height="150" viewBox="0 0 150 150" aria-hidden="true"><path d="M150 4C126 12 102 28 72 62" stroke="#7A5A3C" stroke-width="5" fill="none" stroke-linecap="round"></path><g transform="translate(114.8 -1.200000000000001) scale(1.1)"><circle cx="12.0" cy="6.0" r="4.6" fill="#FFB7D1"></circle><circle cx="17.7" cy="10.1" r="4.6" fill="#FFB7D1"></circle><circle cx="15.5" cy="16.9" r="4.6" fill="#FFB7D1"></circle><circle cx="8.5" cy="16.9" r="4.6" fill="#FFB7D1"></circle><circle cx="6.3" cy="10.1" r="4.6" fill="#FFB7D1"></circle><circle cx="12" cy="12" r="3.2" fill="#F2C14E"></circle></g><g transform="translate(92.4 8.399999999999999) scale(1.3)"><circle cx="12.0" cy="6.0" r="4.6" fill="#FFD6E5"></circle><circle cx="17.7" cy="10.1" r="4.6" fill="#FFD6E5"></circle><circle cx="15.5" cy="16.9" r="4.6" fill="#FFD6E5"></circle><circle cx="8.5" cy="16.9" r="4.6" fill="#FFD6E5"></circle><circle cx="6.3" cy="10.1" r="4.6" fill="#FFD6E5"></circle><circle cx="12" cy="12" r="3.2" fill="#F2C14E"></circle></g><g transform="translate(73.6 25.6) scale(1.2)"><circle cx="12.0" cy="6.0" r="4.6" fill="#F7A3C4"></circle><circle cx="17.7" cy="10.1" r="4.6" fill="#F7A3C4"></circle><circle cx="15.5" cy="16.9" r="4.6" fill="#F7A3C4"></circle><circle cx="8.5" cy="16.9" r="4.6" fill="#F7A3C4"></circle><circle cx="6.3" cy="10.1" r="4.6" fill="#F7A3C4"></circle><circle cx="12" cy="12" r="3.2" fill="#F2C14E"></circle></g><g transform="translate(56.4 46.4) scale(1.3)"><circle cx="12.0" cy="6.0" r="4.6" fill="#FFB7D1"></circle><circle cx="17.7" cy="10.1" r="4.6" fill="#FFB7D1"></circle><circle cx="15.5" cy="16.9" r="4.6" fill="#FFB7D1"></circle><circle cx="8.5" cy="16.9" r="4.6" fill="#FFB7D1"></circle><circle cx="6.3" cy="10.1" r="4.6" fill="#FFB7D1"></circle><circle cx="12" cy="12" r="3.2" fill="#F2C14E"></circle></g><g transform="translate(101.2 33.2) scale(0.9)"><circle cx="12.0" cy="6.0" r="4.6" fill="#FFD6E5"></circle><circle cx="17.7" cy="10.1" r="4.6" fill="#FFD6E5"></circle><circle cx="15.5" cy="16.9" r="4.6" fill="#FFD6E5"></circle><circle cx="8.5" cy="16.9" r="4.6" fill="#FFD6E5"></circle><circle cx="6.3" cy="10.1" r="4.6" fill="#FFD6E5"></circle><circle cx="12" cy="12" r="3.2" fill="#F2C14E"></circle></g></svg>';
+  var CORNER_L = '<svg width="150" height="150" viewBox="0 0 150 150" aria-hidden="true" style="-webkit-transform:scaleX(-1);transform:scaleX(-1)"><path d="M150 4C126 12 102 28 72 62" stroke="#7A5A3C" stroke-width="5" fill="none" stroke-linecap="round"></path><g transform="translate(114.8 -1.200000000000001) scale(1.1)"><circle cx="12.0" cy="6.0" r="4.6" fill="#FFB7D1"></circle><circle cx="17.7" cy="10.1" r="4.6" fill="#FFB7D1"></circle><circle cx="15.5" cy="16.9" r="4.6" fill="#FFB7D1"></circle><circle cx="8.5" cy="16.9" r="4.6" fill="#FFB7D1"></circle><circle cx="6.3" cy="10.1" r="4.6" fill="#FFB7D1"></circle><circle cx="12" cy="12" r="3.2" fill="#F2C14E"></circle></g><g transform="translate(92.4 8.399999999999999) scale(1.3)"><circle cx="12.0" cy="6.0" r="4.6" fill="#FFD6E5"></circle><circle cx="17.7" cy="10.1" r="4.6" fill="#FFD6E5"></circle><circle cx="15.5" cy="16.9" r="4.6" fill="#FFD6E5"></circle><circle cx="8.5" cy="16.9" r="4.6" fill="#FFD6E5"></circle><circle cx="6.3" cy="10.1" r="4.6" fill="#FFD6E5"></circle><circle cx="12" cy="12" r="3.2" fill="#F2C14E"></circle></g><g transform="translate(73.6 25.6) scale(1.2)"><circle cx="12.0" cy="6.0" r="4.6" fill="#F7A3C4"></circle><circle cx="17.7" cy="10.1" r="4.6" fill="#F7A3C4"></circle><circle cx="15.5" cy="16.9" r="4.6" fill="#F7A3C4"></circle><circle cx="8.5" cy="16.9" r="4.6" fill="#F7A3C4"></circle><circle cx="6.3" cy="10.1" r="4.6" fill="#F7A3C4"></circle><circle cx="12" cy="12" r="3.2" fill="#F2C14E"></circle></g><g transform="translate(56.4 46.4) scale(1.3)"><circle cx="12.0" cy="6.0" r="4.6" fill="#FFB7D1"></circle><circle cx="17.7" cy="10.1" r="4.6" fill="#FFB7D1"></circle><circle cx="15.5" cy="16.9" r="4.6" fill="#FFB7D1"></circle><circle cx="8.5" cy="16.9" r="4.6" fill="#FFB7D1"></circle><circle cx="6.3" cy="10.1" r="4.6" fill="#FFB7D1"></circle><circle cx="12" cy="12" r="3.2" fill="#F2C14E"></circle></g><g transform="translate(101.2 33.2) scale(0.9)"><circle cx="12.0" cy="6.0" r="4.6" fill="#FFD6E5"></circle><circle cx="17.7" cy="10.1" r="4.6" fill="#FFD6E5"></circle><circle cx="15.5" cy="16.9" r="4.6" fill="#FFD6E5"></circle><circle cx="8.5" cy="16.9" r="4.6" fill="#FFD6E5"></circle><circle cx="6.3" cy="10.1" r="4.6" fill="#FFD6E5"></circle><circle cx="12" cy="12" r="3.2" fill="#F2C14E"></circle></g></svg>';
   var ACCENT = '<svg width="100%" height="100%" viewBox="0 0 24 24" aria-hidden="true"><circle cx="12.0" cy="6.0" r="4.6" fill="#FFB7D1"></circle><circle cx="17.7" cy="10.1" r="4.6" fill="#FFB7D1"></circle><circle cx="15.5" cy="16.9" r="4.6" fill="#FFB7D1"></circle><circle cx="8.5" cy="16.9" r="4.6" fill="#FFB7D1"></circle><circle cx="6.3" cy="10.1" r="4.6" fill="#FFB7D1"></circle><circle cx="12" cy="12" r="3.2" fill="#F2C14E"></circle></svg>';
   var TILE = '<svg width="100%" height="100%" viewBox="0 0 24 24" aria-hidden="true"><circle cx="12.0" cy="6.0" r="4.6" fill="#C9B6FF"></circle><circle cx="17.7" cy="10.1" r="4.6" fill="#C9B6FF"></circle><circle cx="15.5" cy="16.9" r="4.6" fill="#C9B6FF"></circle><circle cx="8.5" cy="16.9" r="4.6" fill="#C9B6FF"></circle><circle cx="6.3" cy="10.1" r="4.6" fill="#C9B6FF"></circle><circle cx="12" cy="12" r="3.2" fill="#F2C14E"></circle></svg>';
-  var CHIP = '<svg width="100%" height="100%" viewBox="0 0 24 24" aria-hidden="true"><ellipse cx="12" cy="9" rx="4.500" ry="6.500" fill="#FF8FB5"></ellipse><path d="M12 15v8M12 20c-3 0-5-2-5-4M12 18c3 0 5-2 5-4" stroke="#2E8A48" stroke-width="2" fill="none" stroke-linecap="round"></path></svg>';
-  var THUMB = '<svg width="100%" height="100%" viewBox="0 0 40 40" aria-hidden="true"><path d="M20 38V20" stroke="#2E8A48" stroke-width="3"></path><path d="M10 6c0 12 4 16 10 16s10-4 10-16l-5 4-5-6-5 6z" fill="#FF6FA3"></path><path d="M20 36c-6-2-8-6-8-8M20 36c6-2 8-6 8-8" stroke="#2E8A48" stroke-width="2.500" fill="none"></path></svg>';
-  var KNOB = '<svg width="100%" height="100%" viewBox="0 0 40 40" aria-hidden="true"><circle cx="20" cy="20" r="18" fill="#FFF0F6"></circle><g transform="translate(8 8)"><circle cx="12.0" cy="6.0" r="4.6" fill="#FF8FB5"></circle><circle cx="17.7" cy="10.1" r="4.6" fill="#FF8FB5"></circle><circle cx="15.5" cy="16.9" r="4.6" fill="#FF8FB5"></circle><circle cx="8.5" cy="16.9" r="4.6" fill="#FF8FB5"></circle><circle cx="6.3" cy="10.1" r="4.6" fill="#FF8FB5"></circle><circle cx="12" cy="12" r="3.2" fill="#F2C14E"></circle></g></svg>';
+  var CHIP = '<svg width="100%" height="100%" viewBox="0 0 24 24" aria-hidden="true"><circle cx="12.0" cy="6.0" r="4.6" fill="#FF8FB5"></circle><circle cx="17.7" cy="10.1" r="4.6" fill="#FF8FB5"></circle><circle cx="15.5" cy="16.9" r="4.6" fill="#FF8FB5"></circle><circle cx="8.5" cy="16.9" r="4.6" fill="#FF8FB5"></circle><circle cx="6.3" cy="10.1" r="4.6" fill="#FF8FB5"></circle><circle cx="12" cy="12" r="3.2" fill="#FFF2A8"></circle></svg>';
+  var THUMB = '<svg width="100%" height="100%" viewBox="0 0 40 40" aria-hidden="true"><path d="M20 38V24" stroke="#2E8A48" stroke-width="3"></path><path d="M3 3c0 15 6 23 17 23s17-8 17-23l-8 6-9-9-9 9z" fill="#FF6FA3" stroke="#D9457F" stroke-width="1.500" stroke-linejoin="round"></path><path d="M20 36c-6-1-10-5-10-8M20 36c6-1 10-5 10-8" stroke="#2E8A48" stroke-width="2.500" fill="none"></path></svg>';
+  var KNOB = '<svg width="100%" height="100%" viewBox="0 0 40 40" aria-hidden="true"><circle cx="20" cy="20" r="17" fill="#FFF0F6" stroke="rgba(30,20,40,0.5)" stroke-width="2"></circle><g transform="translate(8 8)"><circle cx="12.0" cy="6.0" r="4.6" fill="#FF8FB5"></circle><circle cx="17.7" cy="10.1" r="4.6" fill="#FF8FB5"></circle><circle cx="15.5" cy="16.9" r="4.6" fill="#FF8FB5"></circle><circle cx="8.5" cy="16.9" r="4.6" fill="#FF8FB5"></circle><circle cx="6.3" cy="10.1" r="4.6" fill="#FF8FB5"></circle><circle cx="12" cy="12" r="3.2" fill="#F2C14E"></circle></g></svg>';
   var GLOW = '#9BE59B';
   var pack = {
     kind: 'theme', id: 'spring', name: 'Spring',
@@ -21,7 +21,7 @@
       { target: 'toast', slot: 'front', when: 'always', outset: [30, 0, 0, -30], cost: 'static', style: 'right:auto;bottom:auto;width:44px;height:44px', html: ACCENT, asset: 'accent.png' },
       { target: 'dialog', slot: 'front', when: 'always', outset: [30, 0, 0, -30], cost: 'static', style: 'right:auto;bottom:auto;width:44px;height:44px', html: ACCENT, asset: 'accent.png' },
       { target: 'ribbon', slot: 'back', when: 'always', outset: [0, 96, 54, 96], cost: 'static', style: 'top:auto;height:54px', html: BOTTOM, asset: 'bottom.png' },
-      { target: 'tile', slot: 'front', when: 'always', outset: [18, 0, 0, 18], cost: 'static', style: 'right:auto;bottom:auto;width:36px;height:36px', html: TILE, asset: 'tile.png' },
+      { target: 'tile', slot: 'front', when: 'always', outset: [10, 0, 0, 10], cost: 'static', style: 'right:auto;bottom:auto;width:36px;height:36px', html: TILE, asset: 'tile.png' },
       { target: '*', slot: 'back', when: 'focused', outset: 26, cost: 'glow', fill: GLOW, radius: 56, blur: 16, opacity: 0.45 },
       { target: 'chip', slot: 'front', when: 'always', outset: [12, 0, 0, 12], cost: 'static', style: 'right:auto;bottom:auto;width:22px;height:22px', html: CHIP, asset: 'chip.png' },
       { target: 'thumb', slot: 'front', when: 'always', outset: 10, cost: 'static', html: THUMB, asset: 'thumb.png' },
